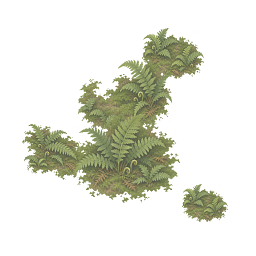
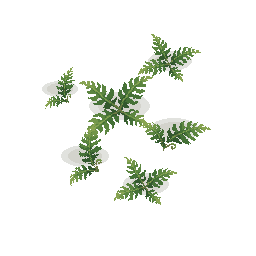
Unify vegetation artwork and refine tree fern crowns

Changed region(s): [[0.0938, 0.0938, 0.8125, 0.8125], [0.6875, 0.7188, 0.9062, 0.875]]

diff --git a/tools/art/pixelate_gemini_plants.py b/tools/art/pixelate_gemini_plants.py
@@ -1,21 +1,13 @@
 #!/usr/bin/env python3
-"""Rebuild DinoImpact's plant sprites from the Gemini reference renders.
-
-The source JPGs are pixel-art renders with a baked checkerboard (or black)
-background. This tool removes that background, trims the silhouette, normalizes
-each plant to the game's 22 PPU world grid, quantizes it to a flat palette and
-cleans the cutout rim, recolors any remaining white points to plant green and
-caps over-bright green foliage before writing the 12 sprite names expected by
-Assets/StreamingAssets/Lua/dino_world.lua.
+"""Build the current vegetation or inspect its pixels.
 
 Run from the repo root:
 
     python tools/art/pixelate_gemini_plants.py
-
-Check or repair the already generated PNGs without rebuilding:
-
     python tools/art/pixelate_gemini_plants.py --check
     python tools/art/pixelate_gemini_plants.py --fix
+
+The old JPG conversion is available as --legacy-output DIRECTORY.
 """
 
 from __future__ import annotations
@@ -27,6 +19,8 @@ from pathlib import Path
 
 import numpy as np
 from PIL import Image, ImageDraw, ImageFilter
+
+import make_vegetation
 
 ROOT = Path(__file__).resolve().parents[2]
 SRC = ROOT / "Assets" / "Art" / "gemini"
@@ -43,13 +37,13 @@ FALLBACK_GREEN = np.array([62, 110, 48], dtype=np.int16)
 # game's small scale. Cap only the green foliage; tree trunks, the yellow palm,
 # flowers and fruit keep their own colours.
 GREEN_PLANTS = {"tree", "bush", "cycad", "fern", "fern_frond", "horsetail"}
+FERN_SPRITES = ("fern", "fern_frond")
 GREEN_VALUE_CAP = 0.55
 GREEN_MIN_SATURATION = 0.58
 
 # sprite name -> (source stem, optional crop box, world height in units)
 # The source folder has seven plants. The extra sprite names are derived from
 # those plants so the existing world generator keeps working unchanged:
-#   fern / fern_frond       <- the upper cycad frond fan
 #   flower / clubmoss_small <- the clubmoss flower spike
 #   horsetail_cone          <- the top of the horsetail
 #   crown_small             <- the crown flower head
@@ -58,8 +52,6 @@ PLANTS = {
     "palm":           ("palm", None, 3.2),
     "bush":           ("shrub", None, 2.0),
     "cycad":          ("cycad", None, 2.4),
-    "fern":           ("cycad", (0, 0, 896, 720), 1.8),
-    "fern_frond":     ("cycad", (0, 170, 430, 700), 1.3),
     "flower":         ("clubmoss", (0, 0, 496, 760), 1.2),
     "clubmoss_small": ("clubmoss", (0, 0, 496, 760), 0.9),
     "horsetail":      ("horsetail", None, 1.8),
@@ -327,10 +319,10 @@ def _write_preview(images: list[tuple[str, Image.Image]]) -> None:
     sheet.save(PREVIEW)
 
 
-def _check_existing() -> int:
+def _check_existing(names=(*PLANTS, *FERN_SPRITES)) -> int:
     """Report any white points in the generated plant sprites."""
     failures = 0
-    for name in PLANTS:
+    for name in names:
         path = DST / f"{name}.png"
         if not path.exists():
             print(f"{name:16s} MISSING")
@@ -377,22 +369,22 @@ def _check_existing() -> int:
 def _fix_existing() -> int:
     """Recolor white points in the generated PNGs without rebuilding them."""
     failures = 0
-    for name in PLANTS:
+    for name in (*PLANTS, *FERN_SPRITES):
         path = DST / f"{name}.png"
         if not path.exists():
             print(f"{name:16s} MISSING")
             failures += 1
             continue
         image = Image.open(path).convert("RGBA")
-        image, green_count = _tame_green_highlights(image, name)
         fixed, count = _recolor_white_points(image)
-        if count or green_count:
+        if count:
             fixed.save(path)
-        print(f"{name:16s} white->green={count} green-highlights={green_count}")
+        print(f"{name:16s} white->green={count}")
     return 1 if failures else 0
 
 
 def main() -> int:
+    global DST, PREVIEW
     parser = argparse.ArgumentParser(description=__doc__)
     mode = parser.add_mutually_exclusive_group()
     mode.add_argument(
@@ -403,8 +395,10 @@ def main() -> int:
     mode.add_argument(
         "--fix",
         action="store_true",
-        help="only recolor white points in the generated PNGs; do not rebuild",
+        help="repair white speckles in current PNGs; do not rebuild",
     )
+    mode.add_argument("--legacy-output", type=Path, metavar="DIRECTORY",
+                      help="export the old JPG-derived plant sprites into a separate directory")
     args = parser.parse_args()
     if args.check:
         return _check_existing()
@@ -412,6 +406,14 @@ def main() -> int:
         result = _fix_existing()
         return result or _check_existing()
 
+    if args.legacy_output is None:
+        make_vegetation.main()
+        return _check_existing()
+
+    DST = args.legacy_output.resolve()
+    if DST == make_vegetation.OUTPUT:
+        parser.error("--legacy-output needs a separate directory")
+    PREVIEW = DST / "gemini_plants_sheet.png"
     DST.mkdir(parents=True, exist_ok=True)
     images: list[tuple[str, Image.Image]] = []
     for name, (stem, crop, units) in PLANTS.items():
@@ -422,8 +424,8 @@ def main() -> int:
               f"white->green={white_count}  green-highlights={green_count}")
 
     _write_preview(images)
-    print(f"preview -> {PREVIEW.relative_to(ROOT)}")
-    return _check_existing()
+    print(f"preview -> {PREVIEW}")
+    return _check_existing(PLANTS)
 
 
 if __name__ == "__main__":

diff --git a/tools/art/make_ferns.py b/tools/art/make_ferns.py
@@ -1,0 +1,82 @@
+#!/usr/bin/env python3
+"""Export foliage sprites and four fern beds from the shared fern atlas."""
+from pathlib import Path
+
+from PIL import Image, ImageDraw, ImageEnhance
+
+ART = Path(__file__).resolve().parent
+OUTPUT = ART.parents[1] / "Assets/Resources/Dino"
+# Each crop has room for its full alpha silhouette.
+SPRITES = {
+    "fern": ((70, 64, 730, 510), (62, 48)),
+    "fern_frond": ((810, 55, 1210, 502), (28, 36)),
+    "rosette": ((93, 645, 629, 1073), (80, 64)),
+    "fronds": ((720, 612, 1323, 1058), (82, 60)),
+}
+PALETTE = ("23432a", "33582e", "457137", "5b8540", "72964a", "88a452",
+           "a4b863", "6e7744")
+# Plant name, center x and y, width in pixels, angle in degrees.
+BEDS = [
+    [("rosette", 170, 61, 54, -16), ("fronds", 60, 89, 43, 24),
+     ("rosette", 119, 106, 75, 9), ("fronds", 174, 130, 62, -35),
+     ("fronds", 85, 156, 58, 36), ("rosette", 146, 184, 56, -12)],
+    [("fronds", 73, 54, 51, -30), ("rosette", 95, 85, 72, 18),
+     ("fronds", 55, 112, 47, 15), ("fronds", 172, 134, 50, -42),
+     ("rosette", 180, 167, 69, -21), ("fronds", 132, 187, 57, 40)],
+    [("rosette", 189, 61, 55, 15), ("fronds", 161, 91, 54, 24),
+     ("rosette", 126, 127, 69, 22), ("fronds", 76, 151, 62, 35),
+     ("rosette", 54, 182, 50, -8), ("fronds", 175, 193, 40, -13)],
+    [("fronds", 147, 62, 51, -18), ("rosette", 92, 88, 69, -15),
+     ("fronds", 66, 134, 61, 4), ("rosette", 107, 164, 77, 12),
+     ("fronds", 156, 186, 53, 42), ("rosette", 199, 151, 49, 8)],
+]
+
+
+def extract(atlas, crop, size, palette, brightness=1.12):
+    piece = atlas.crop(crop)
+    mask = piece.getchannel("A").point(lambda alpha: 255 if alpha >= 148 else 0)
+    piece.putalpha(mask)
+    piece = piece.crop(mask.getbbox()).resize(size, Image.Resampling.BOX)
+    cutout = piece.getchannel("A").point(lambda alpha: 255 if alpha >= 128 else 0)
+    colors = ImageEnhance.Brightness(piece.convert("RGB")).enhance(brightness)
+    result = colors.quantize(palette=palette, dither=Image.Dither.NONE).convert("RGBA")
+    result.putalpha(cutout)
+    return result.crop(cutout.getbbox())
+
+
+def fern_bed(sprites, layout):
+    bed = Image.new("RGBA", (256, 256))
+    ground = ImageDraw.Draw(bed)
+    for _, x, y, width, _ in layout:
+        rx, ry = width * .40, width * .18
+        ground.ellipse((x - rx, y - ry, x + rx, y + ry), fill=(53, 62, 34, 38))
+        ground.ellipse((x - rx * .7, y - ry * .7, x + rx * .7, y + ry * .7),
+                       fill=(69, 68, 40, 60))
+    for species, x, y, width, angle in layout:
+        spr = sprites[species]
+        spr = spr.resize((width, round(spr.height * width / spr.width)), Image.Resampling.NEAREST)
+        spr = spr.rotate(angle, resample=Image.Resampling.NEAREST, expand=True)
+        bed.alpha_composite(spr, (x - spr.width // 2, y - spr.height // 2))
+    return bed
+
+
+def make_palette(colors):
+    palette = Image.new("P", (1, 1))
+    ramp = bytes.fromhex("".join(colors))
+    palette.putpalette(ramp + ramp[:3] * (256 - len(colors)))
+    return palette
+
+
+def main():
+    palette = make_palette(PALETTE)
+    with Image.open(ART / "fern-atlas.png") as source:
+        atlas = source.convert("RGBA")
+        sprites = {name: extract(atlas, box, size, palette) for name, (box, size) in SPRITES.items()}
+    for name in ("fern", "fern_frond"):
+        sprites[name].save(OUTPUT / f"{name}.png")
+    for index, layout in enumerate(BEDS):
+        fern_bed(sprites, layout).save(OUTPUT / f"terrain_fern_{index}.png")
+
+
+if __name__ == "__main__":
+    main()

diff --git a/tools/art/make_vegetation.py b/tools/art/make_vegetation.py
@@ -1,0 +1,76 @@
+#!/usr/bin/env python3
+"""Rebuild the vegetation sprites, fern beds, and groves from their atlases."""
+from pathlib import Path
+
+from PIL import Image
+
+import make_ferns
+import make_grove
+
+ART = Path(__file__).resolve().parent
+OUTPUT = make_ferns.OUTPUT
+PREVIEW = ART / "preview" / "gemini_plants_sheet.png"
+
+# The fern palette also supplies the tree, palm and understory greens.
+BARK = ("4c3426", "66452e", "805336", "975e3b", "ac744a")
+GOLD = ("8f7938", "a78d3f", "bb9f47", "c5ac51")
+RUSSET = ("502833", "703740", "8d4b4b", "a55e57", "b57766")
+RAMP = make_ferns.PALETTE + BARK
+
+# Sprite name, native dimensions, and species-specific colors.
+# Every source atlas is ordered left to right, top to bottom.
+CANOPY = (
+    None,  # The tree fern has its own source image.
+    ("palm", (39, 70), GOLD),
+    ("bush", (47, 43), ()),
+    ("cycad", (46, 53), ()),
+)
+UNDERSTORY = (
+    ("flower", (16, 26), RUSSET),
+    ("clubmoss_small", (13, 20), RUSSET),
+    ("horsetail", (20, 40), GOLD),
+    ("horsetail_cone", (15, 31), GOLD),
+    ("crown", (15, 29), GOLD),
+    ("crown_small", (13, 20), GOLD),
+)
+
+
+def export_sprite(atlas, crop, name, dimensions, accents=()):
+    palette = make_ferns.make_palette(RAMP + accents)
+    sprite = make_ferns.extract(atlas, crop, dimensions, palette, brightness=1.06)
+    sprite.save(OUTPUT / f"{name}.png")
+
+
+def export_atlas(stem, columns, plants):
+    with Image.open(ART / f"{stem}-atlas.png") as source:
+        atlas = source.convert("RGBA")
+    rows = len(plants) // columns
+    for index, plant in enumerate(plants):
+        if plant is None:
+            continue
+        row, column = divmod(index, columns)
+        crop = (atlas.width * column // columns, atlas.height * row // rows,
+                atlas.width * (column + 1) // columns, atlas.height * (row + 1) // rows)
+        export_sprite(atlas, crop, *plant)
+
+
+def main():
+    with Image.open(ART / "tree-fern.png") as source:
+        tree = source.convert("RGBA")
+    export_sprite(tree, (0, 0, tree.width, tree.height), "tree", (108, 143))
+    export_atlas("canopy", 2, CANOPY)
+    export_atlas("understory", 3, UNDERSTORY)
+    make_ferns.main()
+    make_grove.main()
+
+    names = ["tree"] + [entry[0] for entry in CANOPY + UNDERSTORY if entry is not None]
+    names += ["fern", "fern_frond"]
+    images = []
+    for name in names:
+        with Image.open(OUTPUT / f"{name}.png") as sprite:
+            images.append(sprite.copy())
+    make_grove.contact_sheet(images, names, cols=6).save(PREVIEW)
+
+
+if __name__ == "__main__":
+    main()

diff --git a/tools/art/make_grove.py b/tools/art/make_grove.py
@@ -1,11 +1,8 @@
 #!/usr/bin/env python3
-"""Compose the "小树林" (grove) sprites from the Gemini plant set.
+"""Compose the "小树林" (grove) sprites from the current plant atlases.
 
-The seven Gemini reference renders are pixelated into the twelve sprites under
-Assets/Resources/Dino. This tool arranges those sprites into dense groves in
-the spirit of the reference composition: a tall central tree, smaller trees and
-palms behind, cycad/fern rosettes in the middle, low plants in front and grass
-clumps along the ground.
+Tall tree ferns anchor the canopy, with smaller trees, palms and cycads
+below them, low plants in front and grass clumps along the ground.
 
 It writes four silhouettes for the canopy and edge positions in each woodland:
 
@@ -152,10 +149,10 @@ def checkerboard(w: int, h: int, cell: int = 8) -> Image.Image:
 
 
 def contact_sheet(images: list[Image.Image], names: list[str],
-                  scale: int = 2, gap: int = 8, label: int = 14) -> Image.Image:
+                  scale: int = 2, gap: int = 8, label: int = 14,
+                  cols: int = 2) -> Image.Image:
     cell_w = max(im.width for im in images) * scale
     cell_h = max(im.height for im in images) * scale + label
-    cols = 2
     rows = (len(images) + cols - 1) // cols
     sheet = checkerboard(cols * cell_w + (cols + 1) * gap,
                          rows * cell_h + (rows + 1) * gap)

diff --git a/docs/assets-and-packaging.md b/docs/assets-and-packaging.md
@@ -10,7 +10,7 @@
 | 玩法代码 | `Assets/StreamingAssets/Lua/` | ✅ | 唯一源码（桌面版直接读取） |
 | 宿主 C# | `Assets/SurfImpact/Scripts/`、`Assets/Editor/` | ✅ | MoonSharp 宿主、构建菜单 |
 | 运行时精灵 | `Assets/Resources/Dino/` | ✅ | 虽然是生成物，但运行时直接加载；缺文件会退回占位图 |
-| 当前素材源图 | `Assets/Art/gemini/*.jpg` | ✅ | 当前生成管线的输入（约 3.6 MB） |
+| 当前植被源图 | `tools/art/*-atlas.png`、`tools/art/tree-fern.png` | ✅ | 植物和蕨地共用的透明源图 |
 | 生成脚本 | `tools/art/pixelate_gemini_plants.py` 等 | ✅ | 必须和源图同版本提交，否则不可复现 |
 | 无头测试 | `tools/luatest/` | ✅ | |
 | 文档 | `docs/`、各 README | ✅ | |
@@ -40,30 +40,17 @@ git check-ignore -v Library_old Assets/Resources/DinoLua Assets/Art/PlantsCutout
 
 ## 2. 素材多版本
 
-### 现行版本（2026-11-14 起，Gemini）
+### 现行植被
 
-```
-Assets/Art/gemini/*.jpg                 源图（树、棕榈、灌木、苏铁、木贼、石松、树冠）
-        │  python tools/art/pixelate_gemini_plants.py
-        ▼
-Assets/Resources/Dino/*.png             12 个运行时 sprite（tree/palm/bush/cycad/fern/...）
-```
+`tools/art/canopy-atlas.png`、`tools/art/understory-atlas.png` 和
+`tools/art/fern-atlas.png` 是现行源图，树蕨单独使用 `tools/art/tree-fern.png`。运行 `python tools/art/make_vegetation.py`
+即可导出独立植物、蕨地、小树林和素材预览。用
+`python tools/art/pixelate_gemini_plants.py --check` 检查 12 张独立植物有无白点。
+提交时把改动涉及的源图、脚本、运行时贴图和 Unity `.meta` 一起提交。
 
-一个**可复现的素材版本 = 三件套**，提交时必须一起走：
-
-1. 源图（`Assets/Art/gemini/`）
-2. 生成脚本（`tools/art/pixelate_gemini_plants.py`，必要时含 `plant_pixel_art.py`）
-3. 生成的 sprite（`Assets/Resources/Dino/*.png`）与说明（`Assets/Resources/Dino/README.txt`）
-
-只提交 sprite，别人改不了细节；只提交源图，别人看不到游戏里的效果。
-
-### 新增 / 切换版本
-
-1. 新源图放进 `Assets/Art/gemini/`（同名覆盖），或另建临时目录并改脚本里的 `SRC` 常量。
-2. 重新生成：`python tools/art/pixelate_gemini_plants.py`
-3. 白点自检（只读）：`python tools/art/pixelate_gemini_plants.py --check`，12 个 sprite 应全部 `white_points=0`。
-4. 看预览：`tools/art/preview/gemini_plants_sheet.png`。
-5. 提交「源图 + 脚本 + sprite + README」；提交信息里写清素材版本名和日期。
+原先的 Gemini JPG 源图保存在 `Assets/Art/gemini/`，可用
+`python tools/art/pixelate_gemini_plants.py --legacy-output Builds/LegacyPlants`
+单独导出旧版 PNG。
 
 ### 归档旧版本（不进 git）
 
